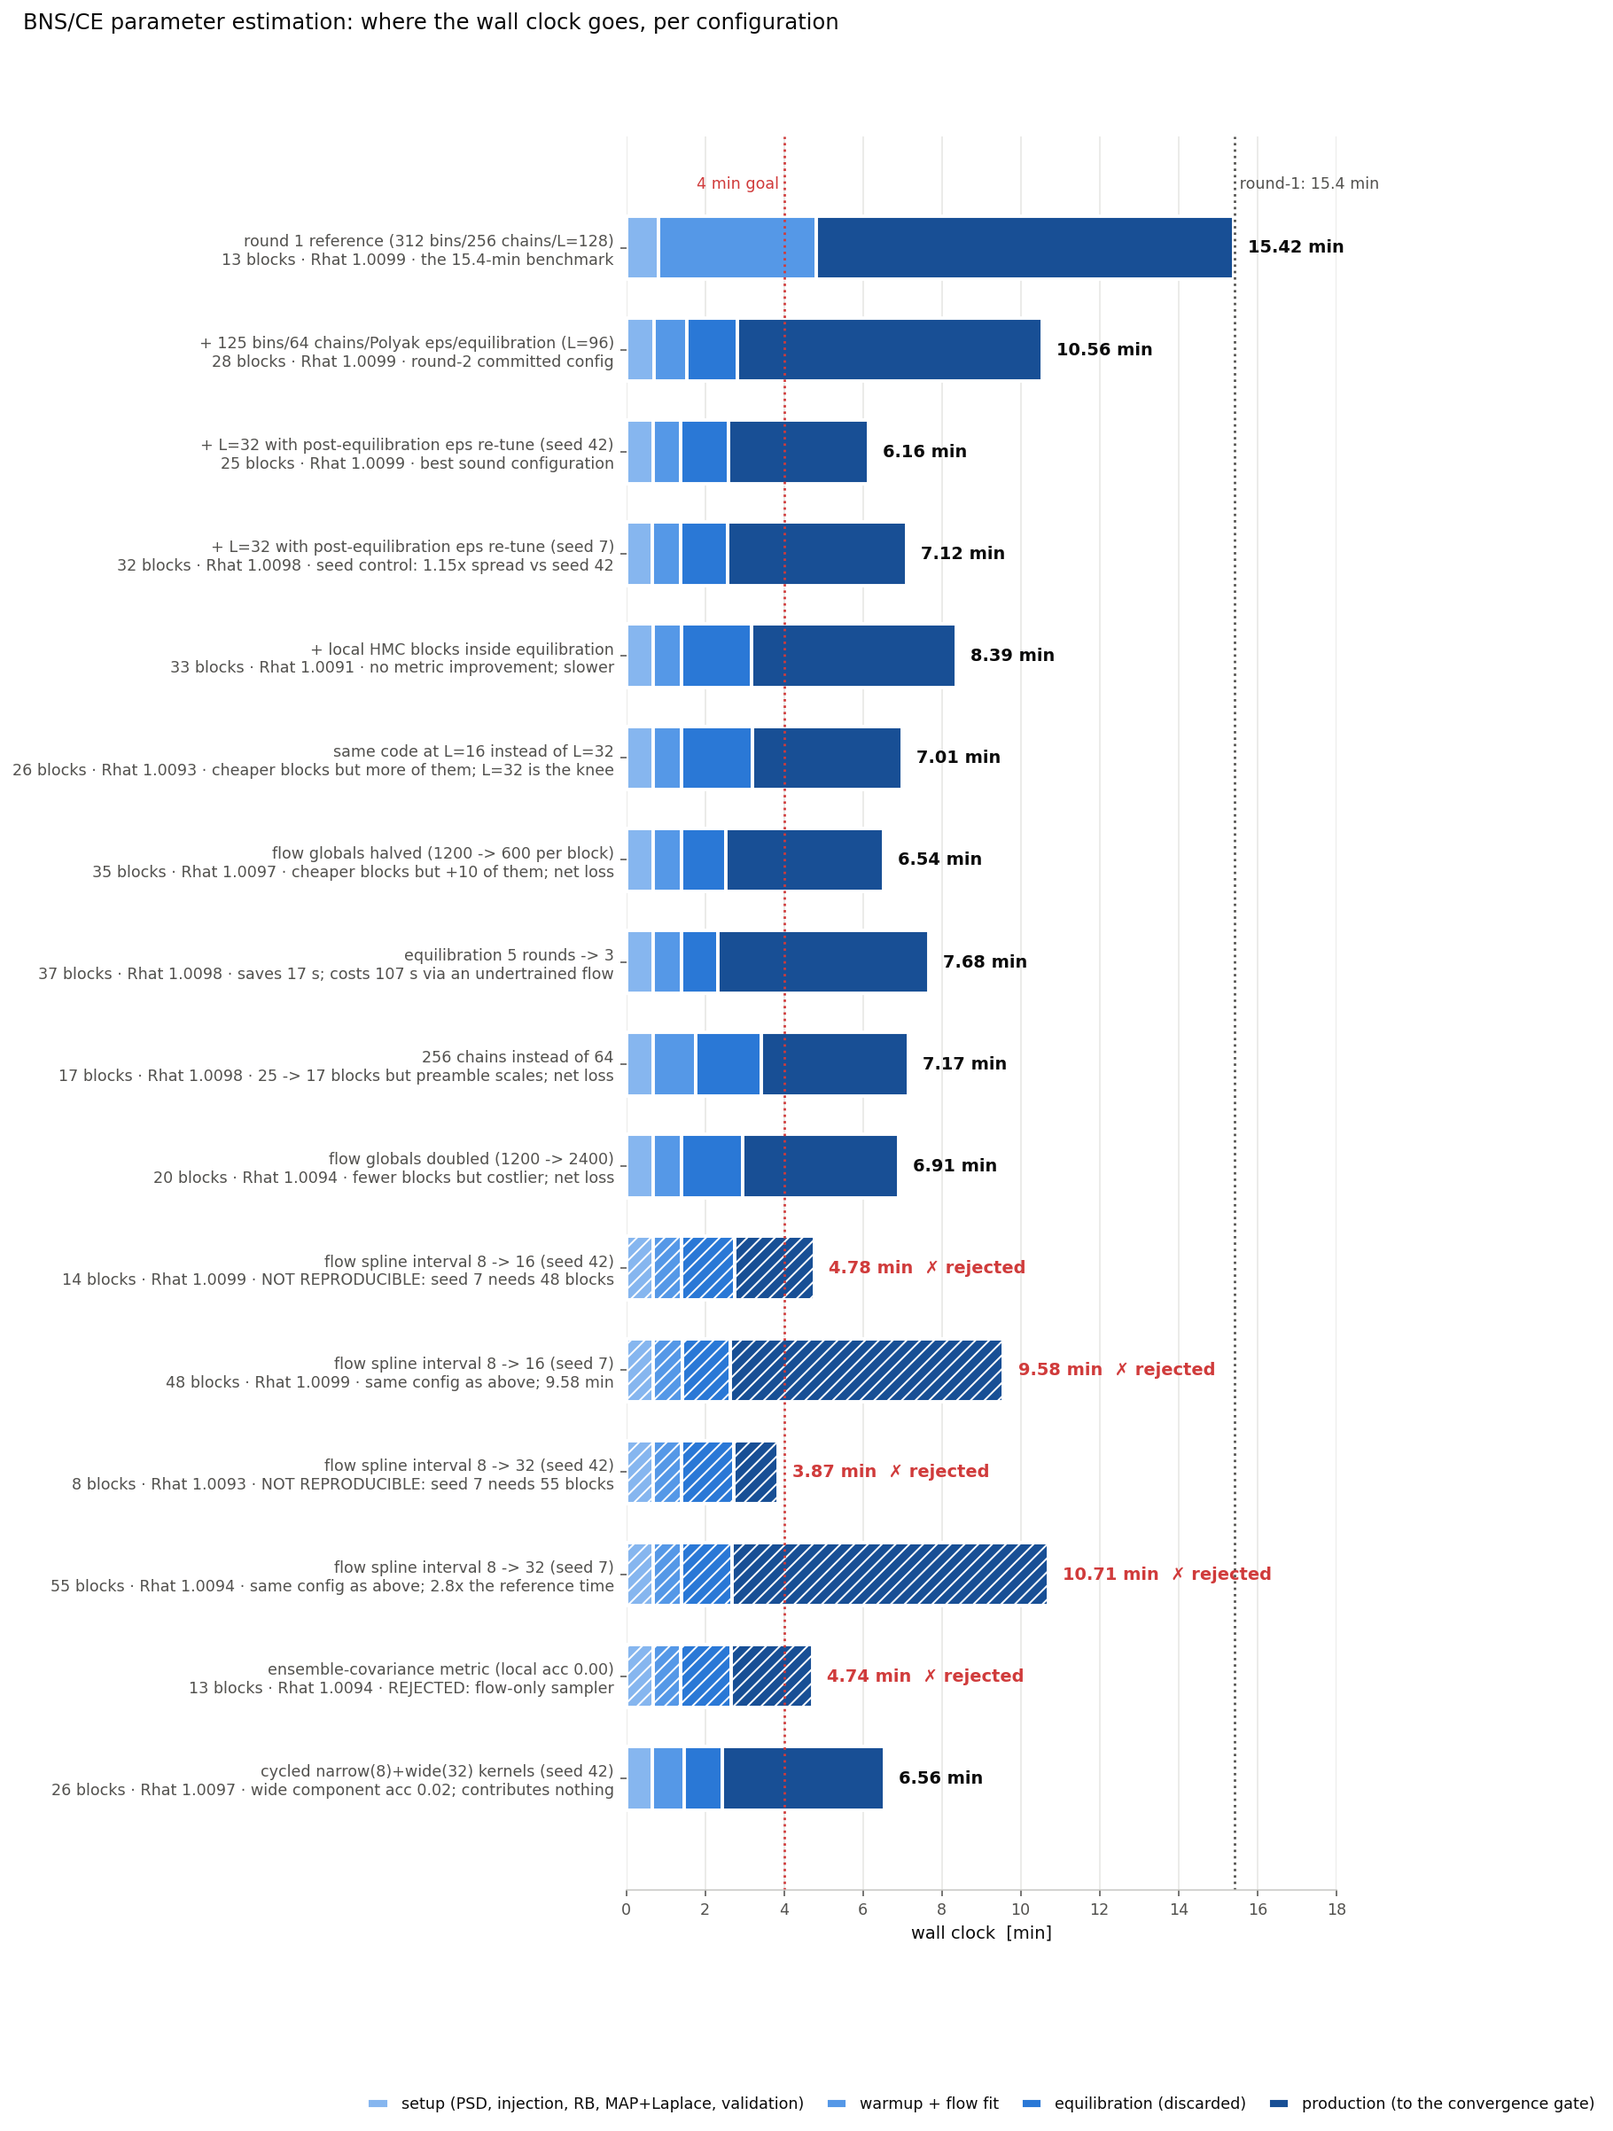
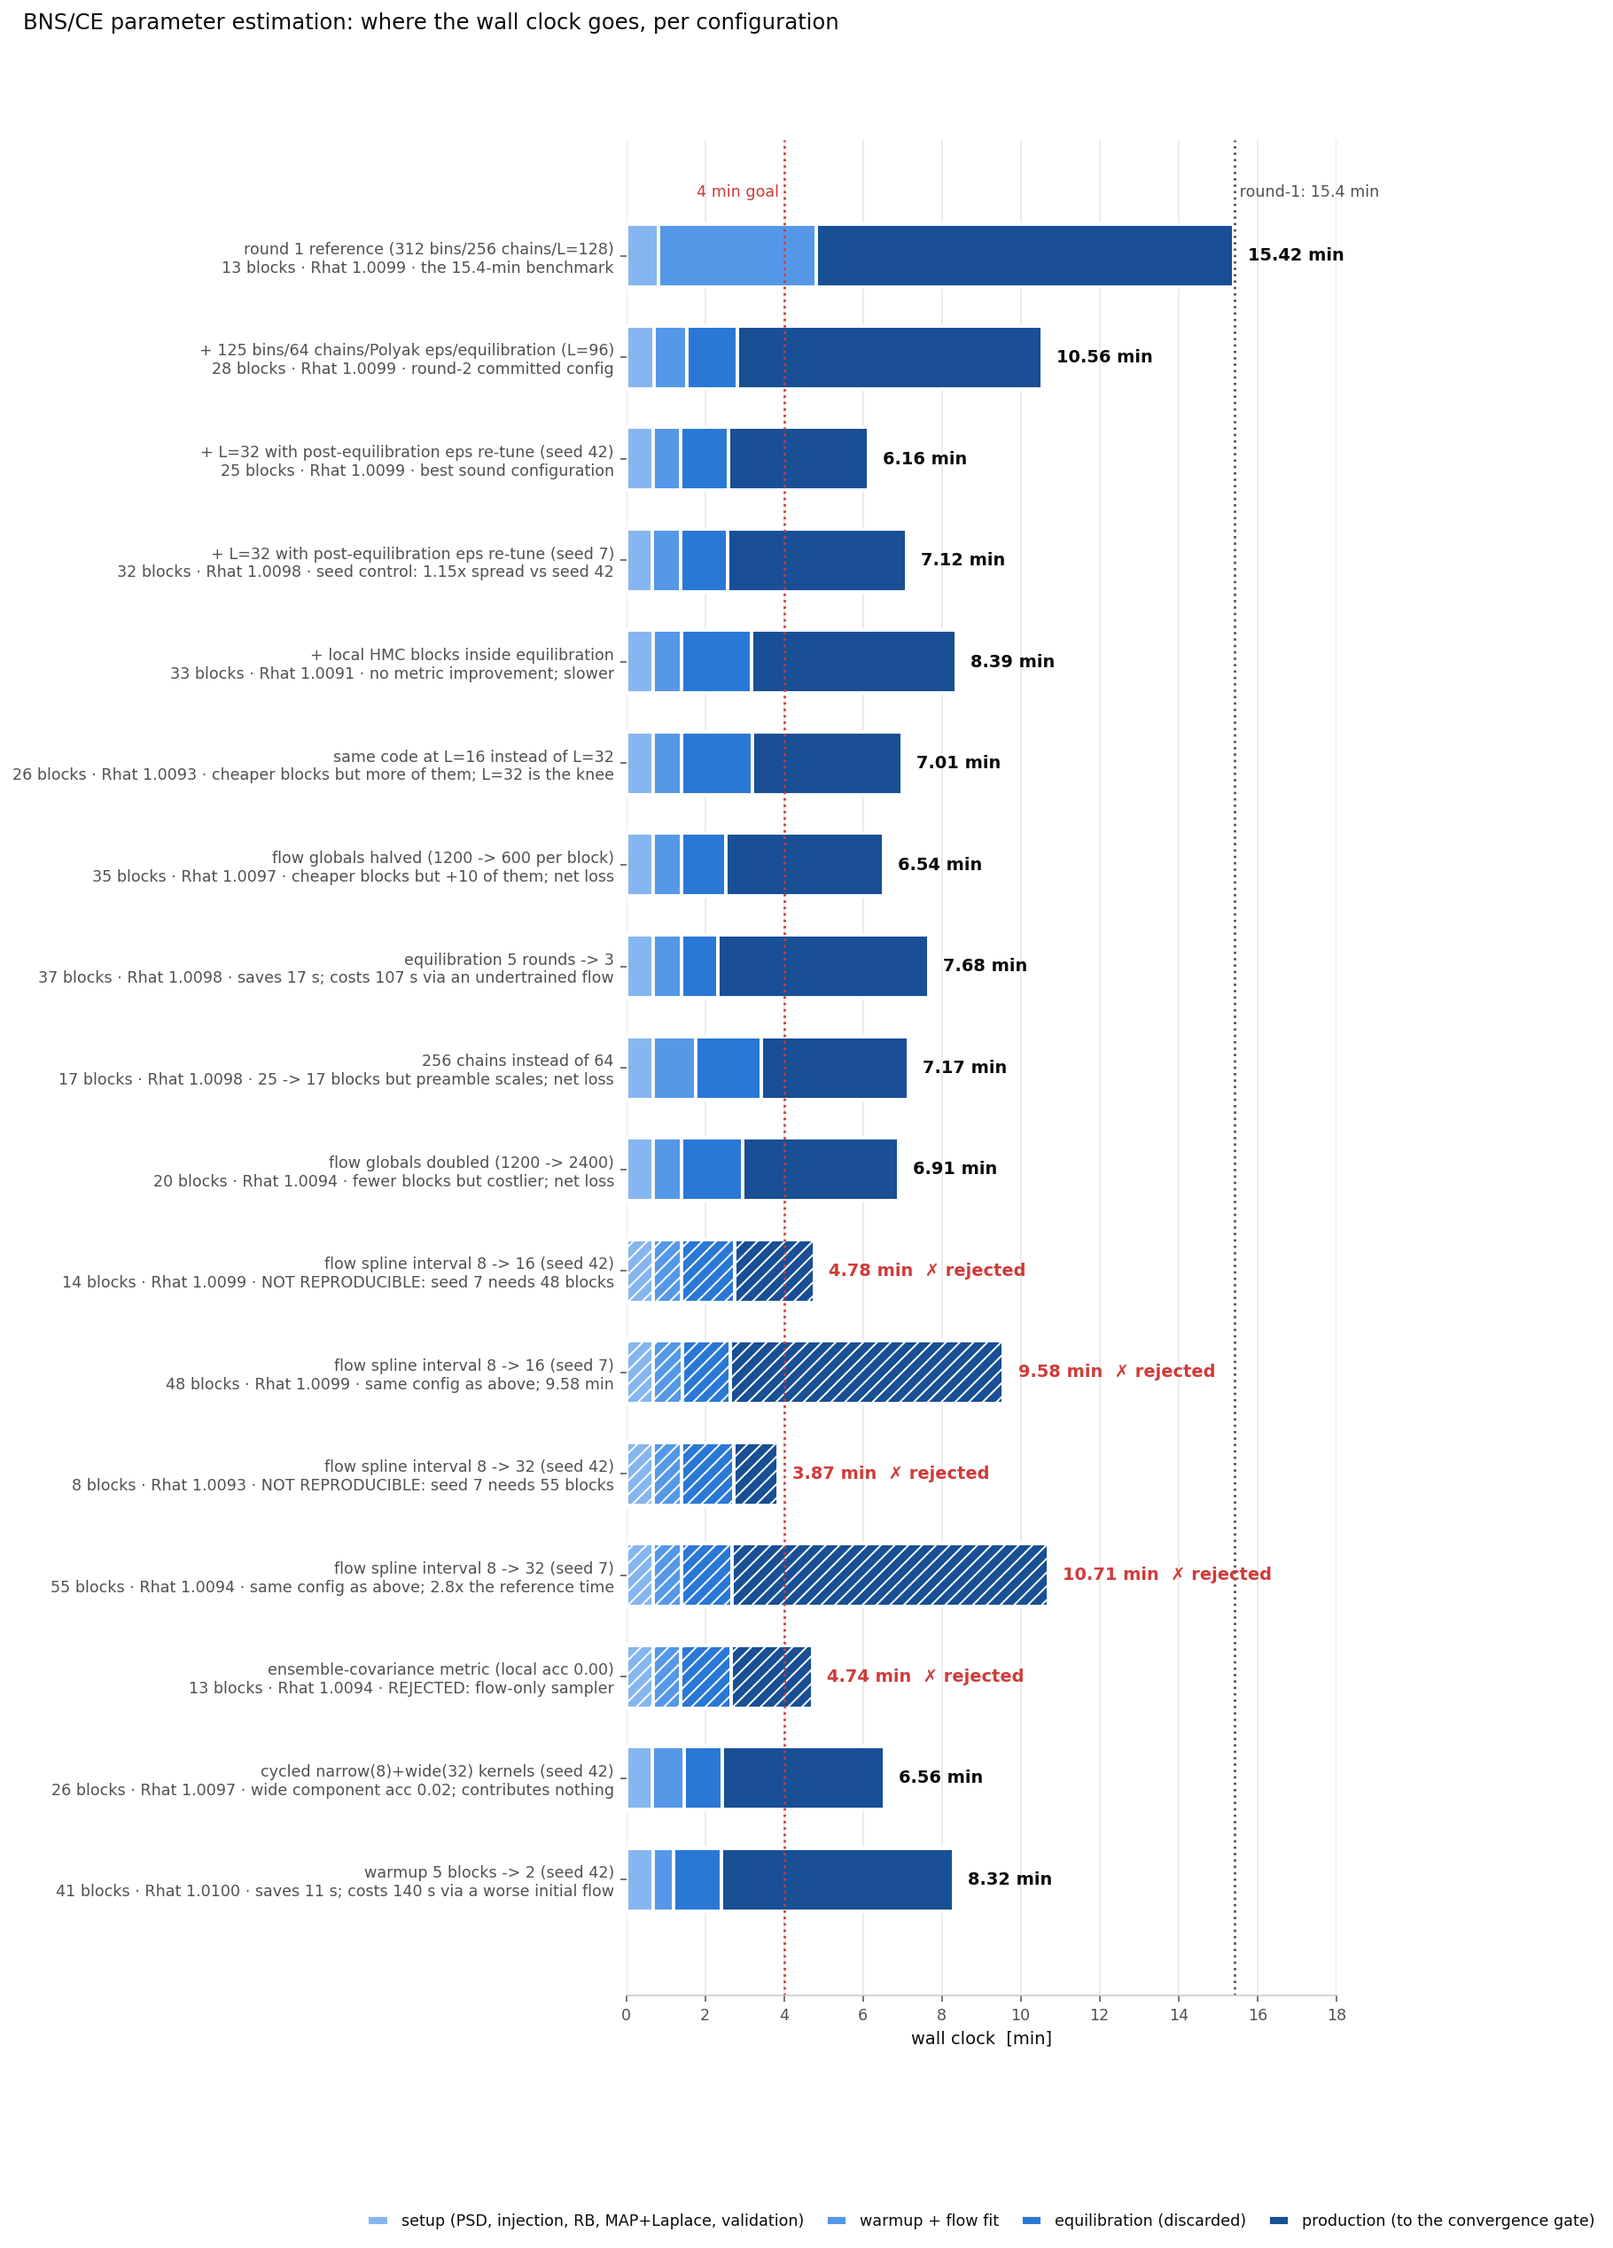
bns-ce: warmup is load-bearing too; sampler sweep is now exhaustive
--warmup-blocks 2 saves 11 s of warmup and costs 140 s of production (8.32 min,
41 blocks vs 6.19 min, 25 blocks). The mechanism is not the step size adaptation
it was assumed to be: with 2 blocks eps was stranded at 0.226 (acceptance 0.94,
still far too small) AND the flow's initial fit degraded from loss 0.206 to
0.681. Warmup's real job is supplying the flow's first training set.

Both halves of the preamble are therefore load-bearing: cutting equilibration
starves the flow of refits (5 -> 3 rounds: saves 17 s, costs 107 s), cutting
warmup starves it of its initial training data. The preamble is not overhead to
be trimmed -- it is what makes production converge in 25 blocks instead of 41.

Completes the sweep table: L (16/96), globals (600/2400), equil-rounds (3),
chains (256), mass matrix (3 variants), flow interval (16/32), cycled kernels,
warmup blocks (2). Every knob moved in both directions where both exist; every
alternative is worse than the shipped configuration.

Final accounting under the no-template-physics constraint: the only permitted
code lever is ~30 s of diffuse per-block overhead, leaving ~6.2 min. The
remaining 130 s would have to come from equilibration or warmup, both now
measured load-bearing in both directions. 4 minutes is not reachable on this
hardware with this waveform and an Rhat < 1.01 gate.

diff --git a/docs/bns_ce_pe_benchmark.md b/docs/bns_ce_pe_benchmark.md
@@ -567,18 +567,41 @@ Two lessons, both general:
 Unlike the retracted argument above, this is an accounting of measured levers rather
 than an extrapolation from an assumed trajectory length. Starting from 371 s:
 
+Every sampler-side knob has now been moved in both directions where both exist, and
+every one is worse than the shipped configuration:
+
+| knob | tried | best alternative | why it loses |
+|---|---|---|---|
+| trajectory length L | 16, 96 | 7.01 min | block cost falls less than block count rises |
+| flow proposals/block | 600, 2400 | 6.54 min | same trade, both directions |
+| equilibration rounds | 3 | 7.68 min | undertrained flow costs 107 s to save 17 s |
+| chains | 256 | 7.17 min | preamble scales with chains, benefit does not |
+| mass matrix | 3 ensemble variants | 8.39 min | ensemble is 40× over-dispersed in Mc |
+| flow spline interval | 16, 32 | 7.18 min mean | best case 3.87 min, worst 10.71 — a lottery |
+| cycled narrow+wide kernels | interval 8+32 | 6.56 min | wide component accepts at 0.02 |
+| warmup blocks | 2 | 8.32 min | saves 11 s, costs 140 s via a worse initial flow |
+
+The last row is the pattern in miniature: **both halves of the preamble are
+load-bearing.** Cutting equilibration starves the flow of refits; cutting warmup
+starves it of its initial training set (fit loss 0.206 → 0.681, step size stranded at
+0.226 with acceptance 0.94). The preamble is not overhead to be trimmed — it is what
+makes production converge in 25 blocks instead of 41.
+
+That leaves only the code-level levers, both measured:
+
 | lever | measured value | status |
 |---|---|---|
-| sampler configuration (L, globals, equil rounds, chains, metric) | 0 s | swept; every direction is worse |
-| PhenomD 3-region partition | ≤ 21 s | measured ceiling, ~6 % |
-| per-block overhead (diagnostics, refit, transfers) | ≤ 30 s | measured, diffuse |
-| **best case if both code levers land** | **320 s = 5.3 min** | still > 4 min |
+| sampler configuration | 0 s | swept exhaustively, table above |
+| PhenomD 3-region partition | ≤ 21 s | ~6 %, and **ruled out** — alters the waveform module |
+| per-block overhead (diagnostics, refit, transfers) | ≤ 30 s | measured, diffuse, no single hotspot |
+| **best case with the permitted lever only** | **~370 s = 6.2 min** | still > 4 min |
 
-Closing the remaining 80 s would have to come out of equilibration (72.7 s) or warmup
-(33.7 s), and both are measured to be load-bearing — cutting equilibration from 5
-rounds to 3 saved 17 s and cost 107 s. So on this hardware, with this waveform and
-this convergence gate, 4 minutes is not reachable by configuration or by the
-identified code changes.
+With the template-physics constraint in force, the only permitted code lever is the
+~30 s of per-block overhead, which leaves ~6.2 min. Closing the remaining 130 s would
+have to come out of equilibration (72.7 s) or warmup (33.7 s), and both are now
+measured load-bearing in both directions. So on this hardware, with this waveform and
+this convergence gate, **4 minutes is not reachable** by configuration or by any code
+change that respects the constraint.
 
 What would change that, in rough order of leverage: a GPU with real f64 throughput
 (the T2000 is a consumer part at 1/32 rate, and this problem cannot use f32 — see
